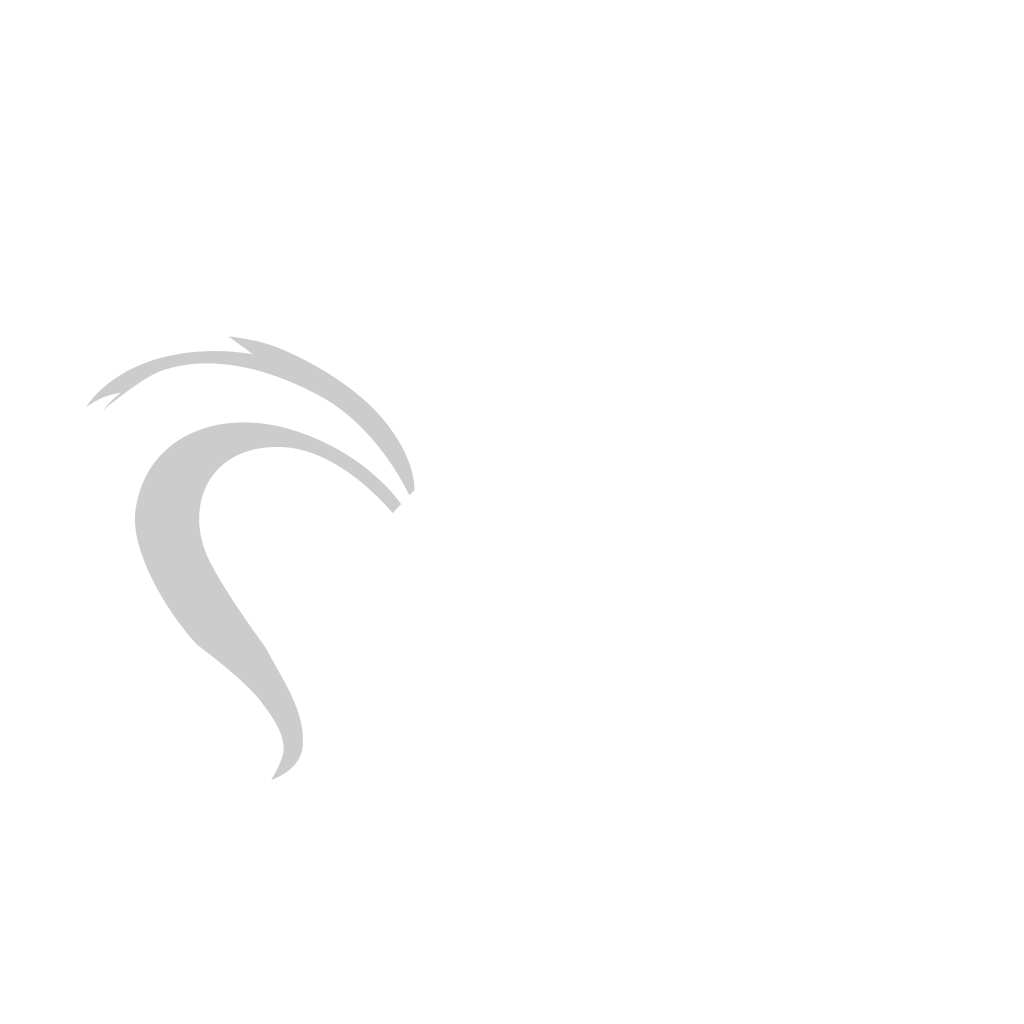
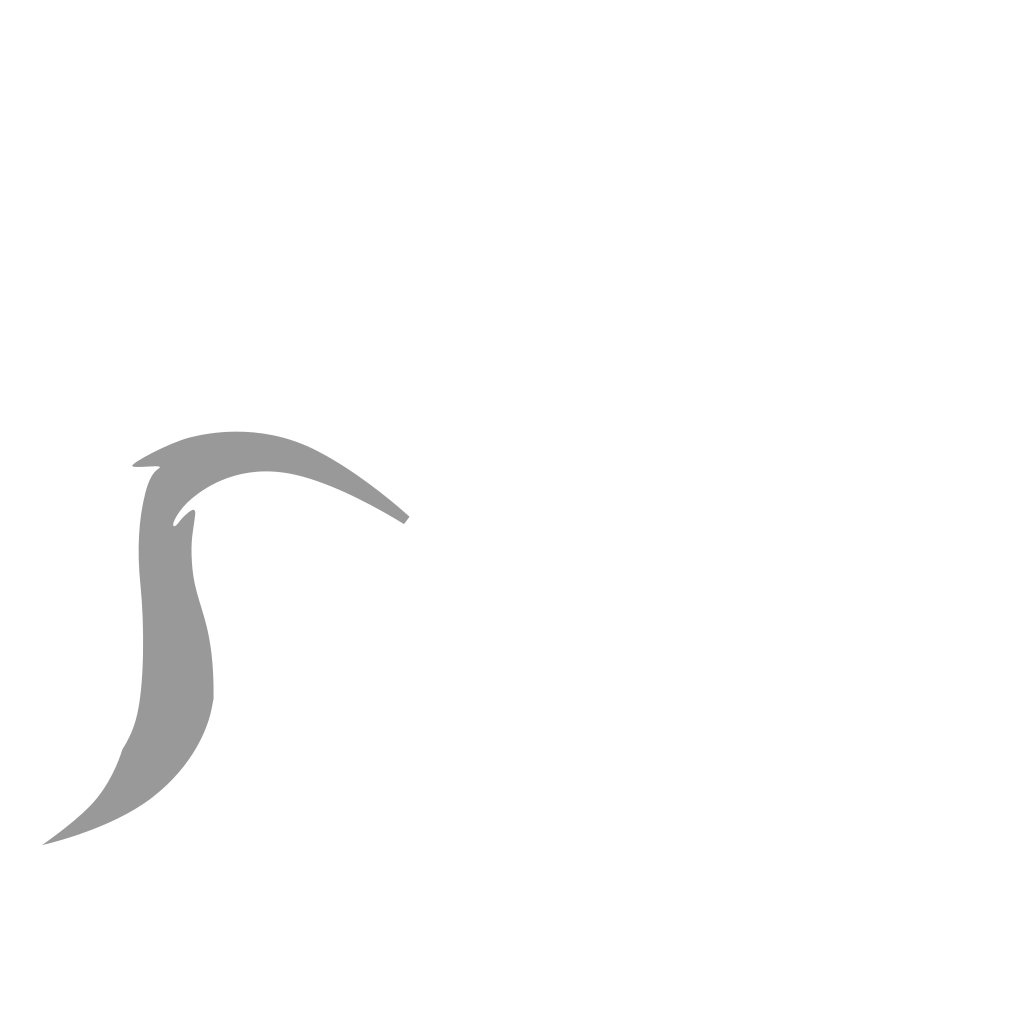
Added new mane styles

Changed region(s): [[0.0625, 0.3125, 0.4062, 0.8125], [0.0312, 0.8125, 0.0625, 0.8438]]

diff --git a/src/thumbnailer.c b/src/thumbnailer.c
@@ -527,6 +527,13 @@ int thumbnail(PNGIMG * canvas, uint8_t * data, uint32_t data_len) {
 		pony_part_count += thumbnail_add_part(&pony_part[pony_part_count], part_loc, &mane_detail[i], 1.0);
 	}
 	
+	if (race & (UNICORN | ALICORN)) {
+		sprintf(part_loc, "%s/horn_fill.png", um_loc);
+		pony_part_count += thumbnail_add_part(&pony_part[pony_part_count], part_loc, &body_color, 1.0);
+		sprintf(part_loc, "%s/horn_outline.png", um_loc);
+		pony_part_count += thumbnail_add_part(&pony_part[pony_part_count], part_loc, &body_color, 0.8);
+	}
+	
 	pony_part_count += thumbnail_add_part(&pony_part[pony_part_count], "templates/ear_fill.png", &body_color, 1.0);
 	pony_part_count += thumbnail_add_part(&pony_part[pony_part_count], "templates/ear_outline.png", &body_color, 0.8);
 	
@@ -621,6 +628,9 @@ int style_detail_count(char * style) {
 		return 5;
 	}
 	else if (!strcmp(style, "assertive")) {
+		return 1;
+	}
+	else if (!strcmp(style, "instructor")) {
 		return 1;
 	}
 	return 0;

diff --git a/src/make-pony.c b/src/make-pony.c
@@ -365,12 +365,12 @@ int main(int argc, char * argv[]) {
 	ADDSTYLE(styles, 5, "RADICAL", "NONE", "RADICAL", 7);
 	ADDSTYLE(styles, 6, "BUMPKIN", "BUMPKIN", "BUMPKIN", 3);
 	ADDSTYLE(styles, 7, "FLOOFEH", "FLOOFEH", "FLOOFEH", 2);
-	ADDSTYLE(styles, 8, "INSTRUCTOR", "NONE", "RADICAL", 2);
+	ADDSTYLE(styles, 8, "CLOUD", "SHOWBOAT", "BOLD", 1);
 	ADDSTYLE(styles, 9, "FILLY", "ADVENTUROUS", "SHOWBOAT", 2);
 	ADDSTYLE(styles, 10, "ADVENTUROUS", "MOON", "SHOWBOAT", 2);
 	ADDSTYLE(styles, 11, "BOOKWORM", "TIMID", "SHOWBOAT", 5);
-	ADDSTYLE(styles, 12, "ADVENTUROUS", "ADVENTUROUS", "RADICAL", 2);
-	ADDSTYLE(styles, 13, "BOLD", "BOLD", "RADICAL", 3);
+	ADDSTYLE(styles, 12, "INSTRUCTOR", "NONE", "RADICAL", 2);
+	ADDSTYLE(styles, 13, "FLOOFEH", "SHOWBOAT", "ADVENTUROUS", 2);
 	ADDSTYLE(styles, 14, "MECHANIC", "MOON", "ADVENTUROUS", 2);
 	ADDSTYLE(styles, 15, "SHOWBOAT", "BOOKWORM", "SHOWBOAT", 5);
 	ADDSTYLE(styles, 16, "MAILCALL", "MAILCALL", "MAILCALL", 1);
